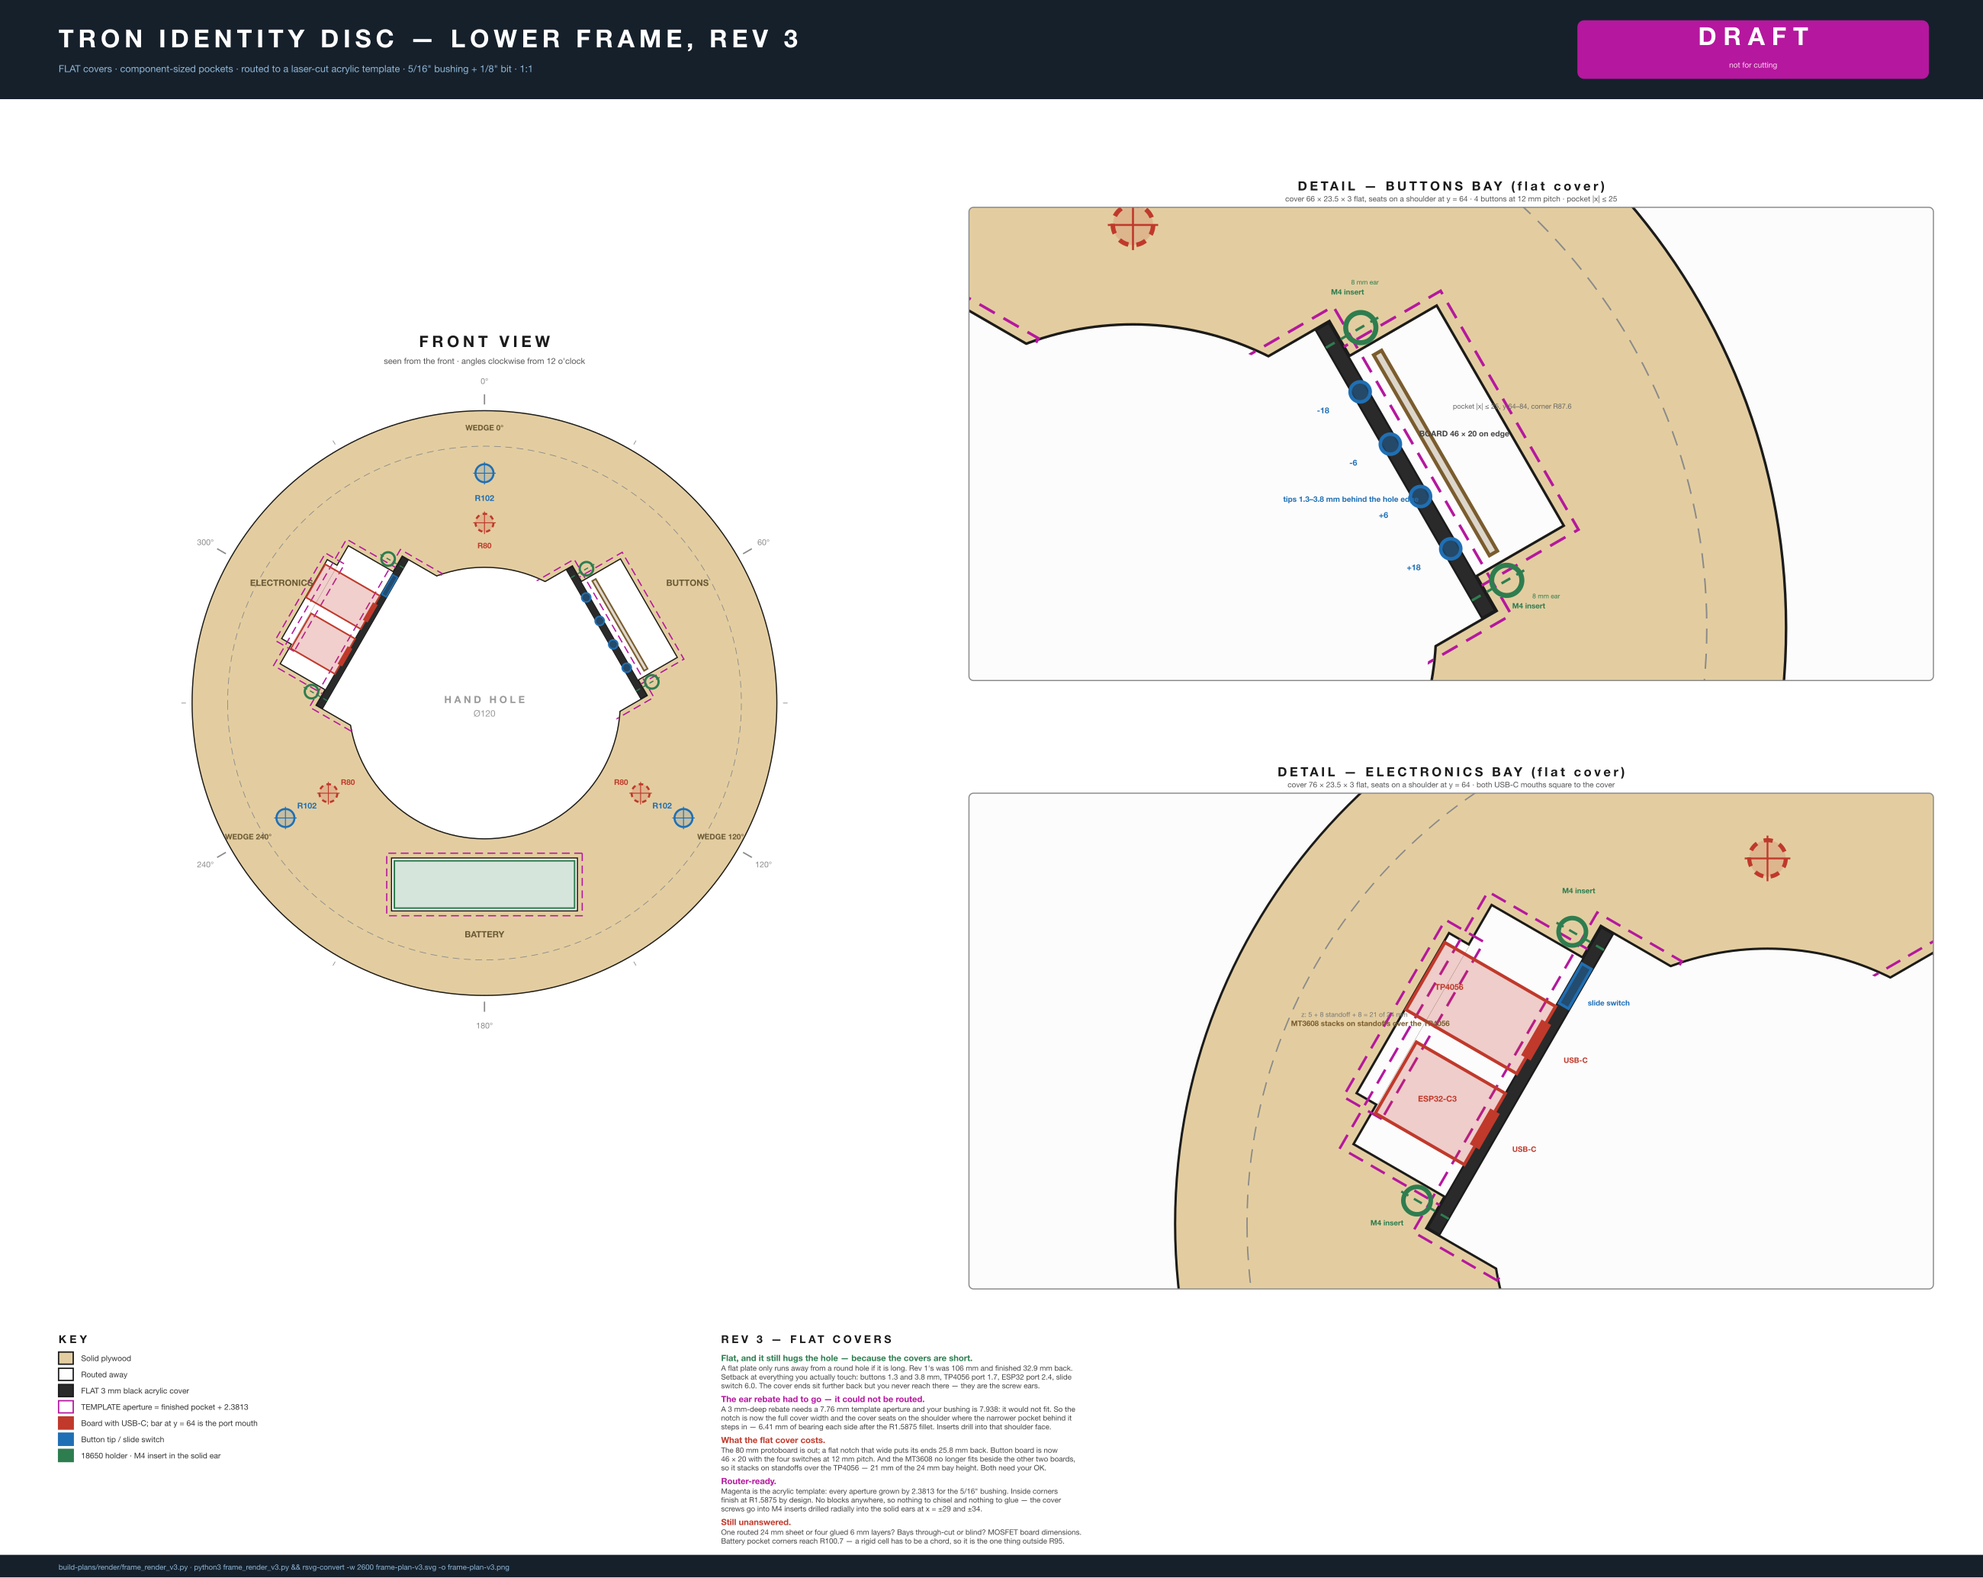
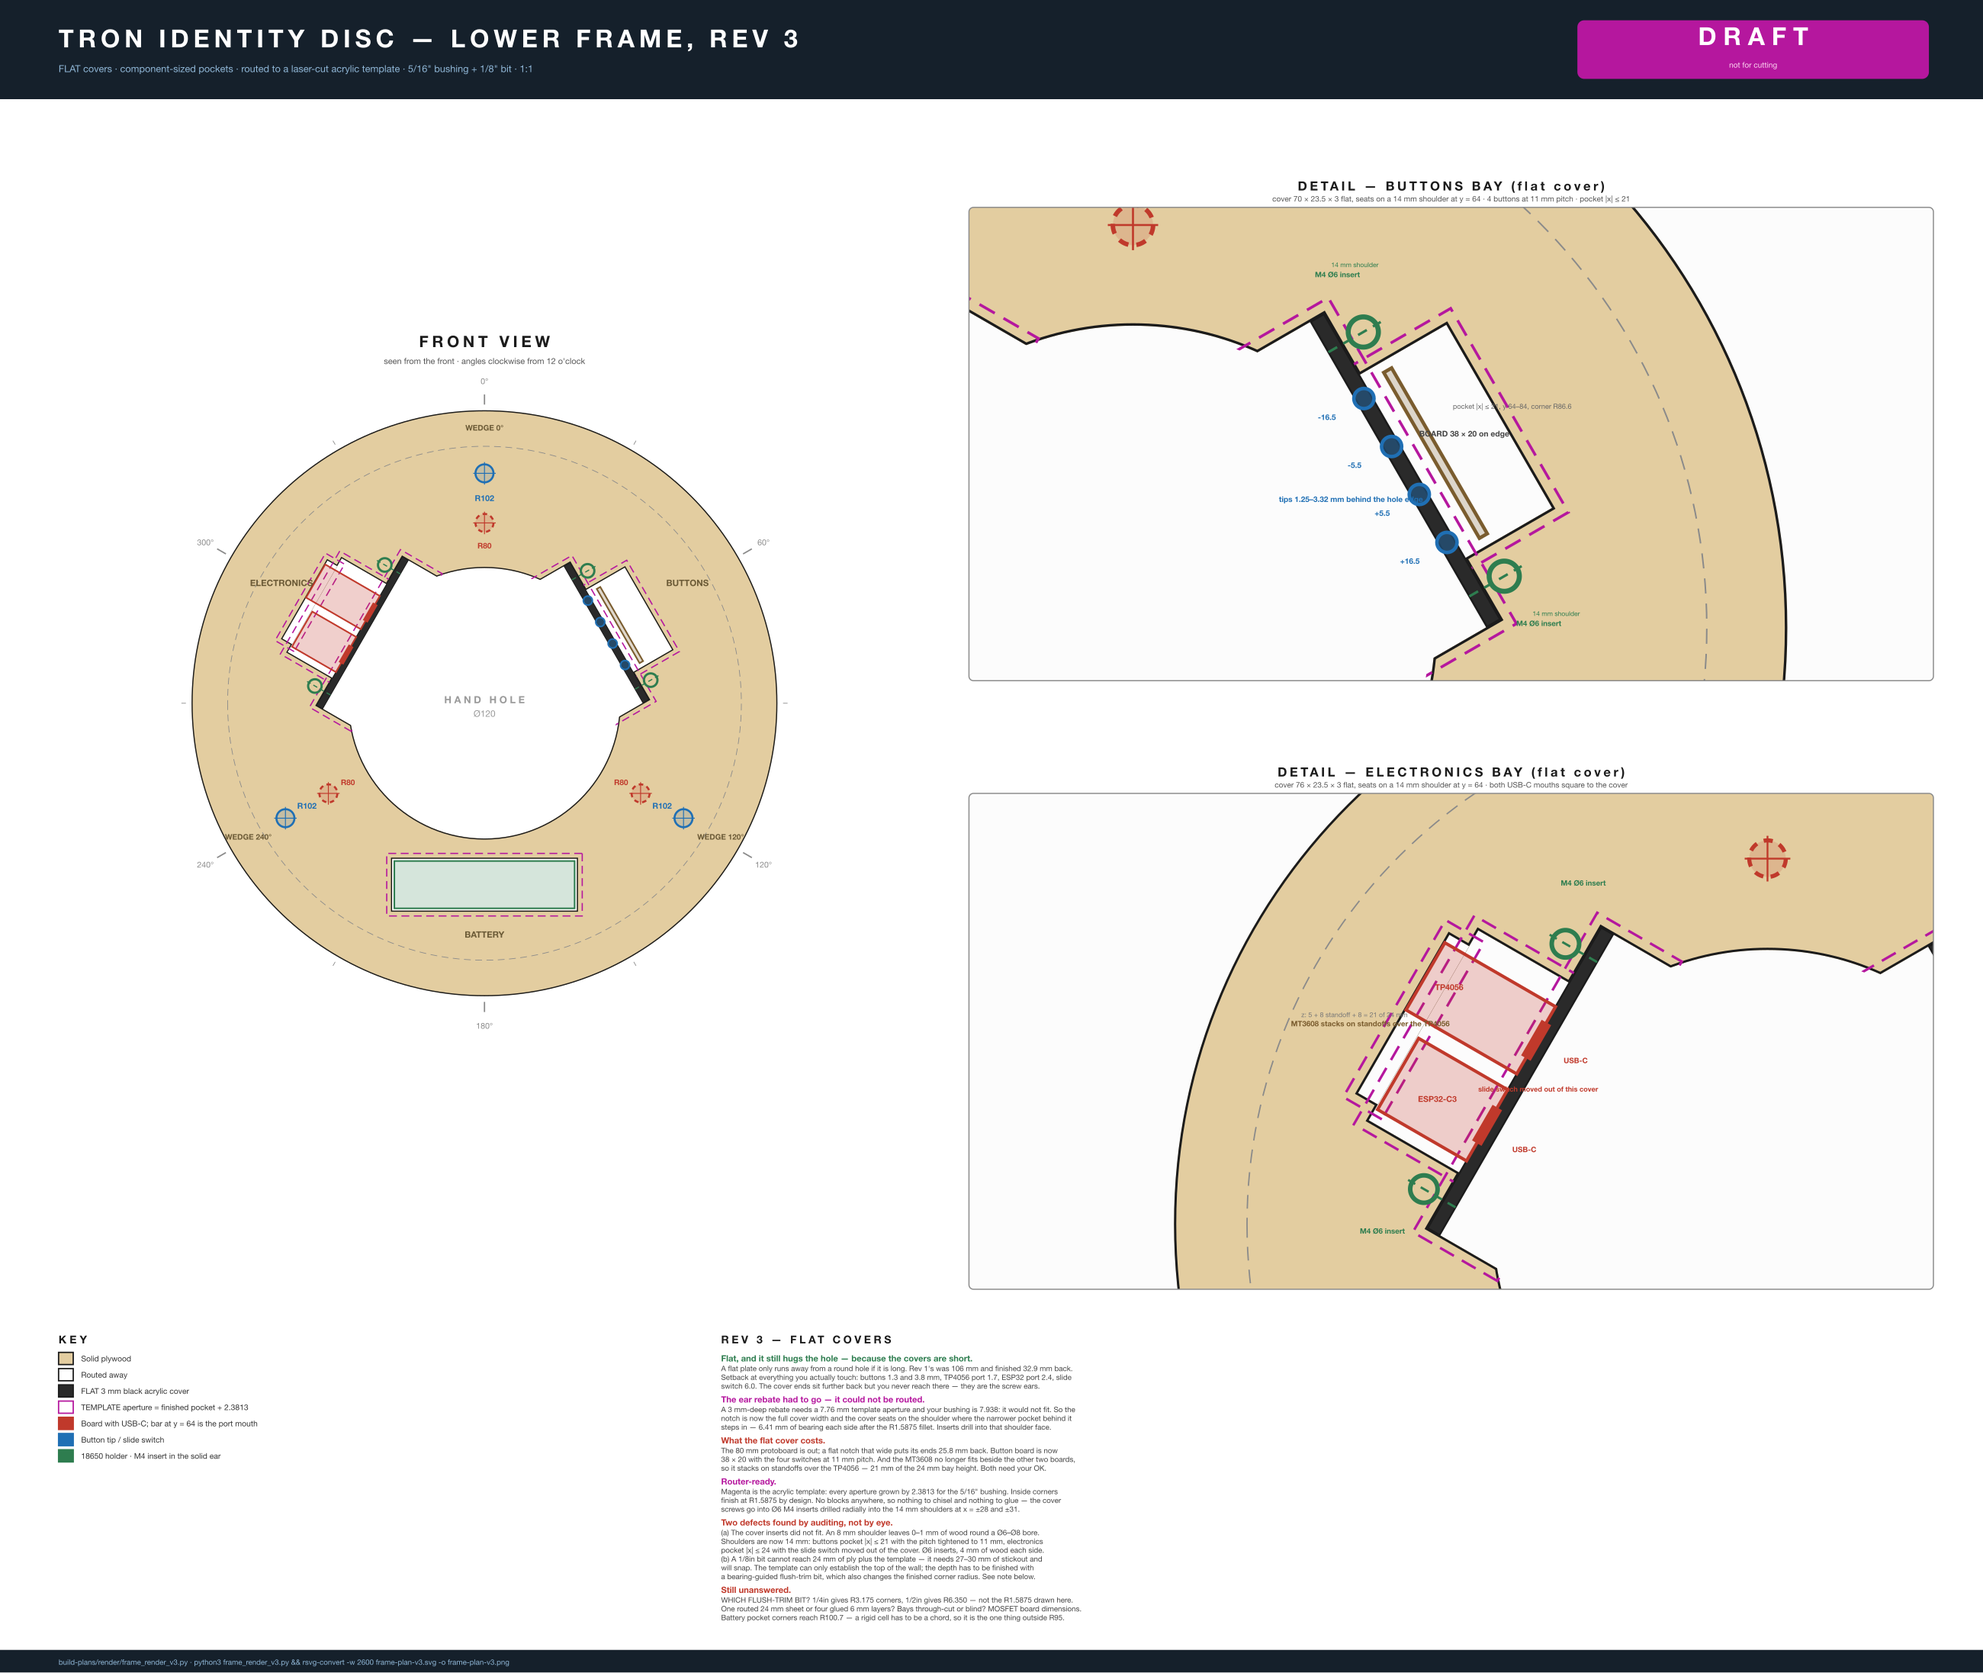
Widen the cover shoulders to 14 mm; flag that a 1/8in bit cannot reach
Two defects found by auditing the geometry against the tooling rather than by
looking at the drawing.

1. The cover inserts did not fit. The shoulder the cover seats on was 8 mm
   wide, which leaves 0 mm of wood around a Ø8 insert bore and 1 mm around a
   Ø6. Shoulders are now 14 mm, giving 4 mm each side of a Ø6 bore. Paying for
   that width needed the pockets narrowed: the buttons pitch drops to 11 mm so
   the board is 38 x 20 and the pocket is |x| <= 21, and the slide switch comes
   out of the electronics cover so that pocket is |x| <= 24. The slide switch
   has no new home yet.

2. A 1/8in bit cannot cut the full wall. 24 mm of ply plus a 3-6 mm template
   needs 27-30 mm of cutting length; common 1/8in bits give 12-25 mm. The
   template and bushing can only establish the top of the wall and the depth
   has to be finished with a bearing-guided flush-trim bit.

   That matters beyond procedure: the flush-trim bit sets the finished inside
   corner radius. 1/4in gives R3.175 and 1/2in gives R6.350, against the
   R1.5875 currently drawn. Every inside corner on both sheets and in the cut
   file has to be redrawn once Brennan says which bit he has. Flagged on the
   sheet and in the spec rather than guessed.

diff --git a/build-plans/render/frame_render_v3.py b/build-plans/render/frame_render_v3.py
@@ -16,16 +16,16 @@ BUSH, BIT = 5 / 16 * 25.4, 1 / 8 * 25.4
 TOFF, RCORNER = (BUSH - BIT) / 2, BIT / 2
 
 BAYS = [
-    dict(name="BUTTONS", A=60.0, notch=33.0, cover=33.0, ear=29.0,
-         pocket=[(25.0, 64.0, 84.0)],
-         buttons=[-18.0, -6.0, 6.0, 18.0], switch=None),
-    dict(name="ELECTRONICS", A=300.0, notch=38.0, cover=38.0, ear=34.0,
-         pocket=[(30.0, 64.0, 87.0), (20.0, 87.0, 92.0)],
-         buttons=[], switch=24.0),
+    dict(name="BUTTONS", A=60.0, notch=35.0, cover=35.0, ear=28.0,
+         pocket=[(21.0, 64.0, 84.0)],
+         buttons=[-16.5, -5.5, 5.5, 16.5], switch=None),
+    dict(name="ELECTRONICS", A=300.0, notch=38.0, cover=38.0, ear=31.0,
+         pocket=[(24.0, 64.0, 87.0), (20.0, 87.0, 92.0)],
+         buttons=[], switch=None),
 ]
 BOARDS = [  # bay index, label, x0, x1, y0, y1, has USB-C at y0
-    (0, "BUTTON BOARD 46×20 on edge", -23.0, 23.0, 68.5, 70.3, False),
-    (1, "ESP32-C3", -22.0, -4.0, 64.0, 86.5, True),
+    (0, "BUTTON BOARD 38×20 on edge", -19.0, 19.0, 68.5, 70.3, False),
+    (1, "ESP32-C3", -21.0, -3.0, 64.0, 86.5, True),
     (1, "TP4056", 1.0, 18.0, 64.0, 92.0, True),
 ]
 BAT_A, BAT_HALF, BAT_Y0, BAT_Y1 = 180.0, 41.0, 69.0, 92.0
@@ -164,7 +164,7 @@ def zoom(sh, uid, bx0, by0, bx1, by1, A, xr, y0, y1, title, sub, pad=14.0):
 
 
 def main():
-    sh = Sheet(880, 700)
+    sh = Sheet(880, 742)
     sh.add('<rect x="0" y="0" width="880" height="44" fill="#15202b"/>')
     sh.text(26, 21, "TRON IDENTITY DISC — LOWER FRAME, REV 3", 11.0, "#fff", anchor="start", weight="700", ls="2.0")
     sh.text(26, 32, "FLAT covers · component-sized pockets · routed to a laser-cut acrylic template "
@@ -193,27 +193,27 @@ def main():
 
     at = zoom(sh, "B", 430, 92, 858, 302, 60.0, 42.0, 58.0, 88.0,
               "DETAIL — BUTTONS BAY   (flat cover)",
-              "cover 66 × 23.5 × 3 flat, seats on a shoulder at y = 64 · 4 buttons at 12 mm pitch · pocket |x| ≤ 25")
-    for bx in (-18, -6, 6, 18):
-        x, y = at(bx, 54); sh.text(x, y, f"{bx:+.0f}", 3.6, BLUE, weight="700")
-    x, y = at(0, 50); sh.text(x, y, "tips 1.3–3.8 mm behind the hole edge", 3.4, BLUE, weight="700")
-    x, y = at(0, 76); sh.text(x, y, "BOARD 46 × 20 on edge", 3.5, "#444", weight="700")
-    x, y = at(0, 87); sh.text(x, y, "pocket |x| ≤ 25, y 64–84, corner R87.6", 3.1, "#666")
+              "cover 70 × 23.5 × 3 flat, seats on a 14 mm shoulder at y = 64 · 4 buttons at 11 mm pitch · pocket |x| ≤ 21")
+    for bx in (-16.5, -5.5, 5.5, 16.5):
+        x, y = at(bx, 54); sh.text(x, y, f"{bx:+.1f}", 3.4, BLUE, weight="700")
+    x, y = at(0, 50); sh.text(x, y, "tips 1.25–3.32 mm behind the hole edge", 3.4, BLUE, weight="700")
+    x, y = at(0, 76); sh.text(x, y, "BOARD 38 × 20 on edge", 3.5, "#444", weight="700")
+    x, y = at(0, 87); sh.text(x, y, "pocket |x| ≤ 21, y 64–84, corner R86.6", 3.1, "#666")
     for s in (-1, 1):
-        x, y = at(s * 36, 70); sh.text(x, y, "M4 insert", 3.3, GREEN, weight="700")
-        x, y = at(s * 36, 74); sh.text(x, y, "8 mm ear", 2.9, GREEN)
+        x, y = at(s * 40, 70); sh.text(x, y, "M4 Ø6 insert", 3.3, GREEN, weight="700")
+        x, y = at(s * 40, 74); sh.text(x, y, "14 mm shoulder", 2.9, GREEN)
 
     at = zoom(sh, "E", 430, 352, 858, 572, 300.0, 46.0, 58.0, 102.0,
               "DETAIL — ELECTRONICS BAY   (flat cover)",
-              "cover 76 × 23.5 × 3 flat, seats on a shoulder at y = 64 · both USB-C mouths square to the cover")
+              "cover 76 × 23.5 × 3 flat, seats on a 14 mm shoulder at y = 64 · both USB-C mouths square to the cover")
     for lbl, xm, yl in (("ESP32-C3", -13.0, 76.0), ("TP4056", 9.5, 86.0)):
         x, y = at(xm, yl); sh.text(x, y, lbl, 3.6, RED, weight="700")
         x, y = at(xm, 54); sh.text(x, y, "USB-C", 3.3, RED, weight="700")
-    x, y = at(24, 54); sh.text(x, y, "slide switch", 3.3, BLUE, weight="700")
+    x, y = at(0, 58); sh.text(x, y, "slide switch moved out of this cover", 3.1, RED, weight="700")
     x, y = at(-6, 97); sh.text(x, y, "MT3608 stacks on standoffs over the TP4056", 3.3, "#7a5c2e", weight="700")
     x, y = at(-6, 101); sh.text(x, y, "z: 5 + 8 standoff + 8 = 21 of 24 mm", 3.0, "#777")
     for s in (-1, 1):
-        x, y = at(s * 42, 72); sh.text(x, y, "M4 insert", 3.3, GREEN, weight="700")
+        x, y = at(s * 44, 72); sh.text(x, y, "M4 Ø6 insert", 3.3, GREEN, weight="700")
 
     ly = 596
     sh.text(26, ly, "KEY", 4.8, INK, anchor="start", weight="700", ls="1.4")
@@ -241,13 +241,21 @@ def main():
          "steps in — 6.41 mm of bearing each side after the R1.5875 fillet. Inserts drill into that shoulder face."),
         ("What the flat cover costs.", RED,
          "The 80 mm protoboard is out; a flat notch that wide puts its ends 25.8 mm back. Button board is now",
-         "46 × 20 with the four switches at 12 mm pitch. And the MT3608 no longer fits beside the other two boards,",
+         "38 × 20 with the four switches at 11 mm pitch. And the MT3608 no longer fits beside the other two boards,",
          "so it stacks on standoffs over the TP4056 — 21 mm of the 24 mm bay height. Both need your OK."),
         ("Router-ready.", MAG,
          "Magenta is the acrylic template: every aperture grown by 2.3813 for the 5/16\" bushing. Inside corners",
          "finish at R1.5875 by design. No blocks anywhere, so nothing to chisel and nothing to glue — the cover",
-         "screws go into M4 inserts drilled radially into the solid ears at x = ±29 and ±34."),
+         "screws go into Ø6 M4 inserts drilled radially into the 14 mm shoulders at x = ±28 and ±31."),
+        ("Two defects found by auditing, not by eye.", RED,
+         "(a) The cover inserts did not fit. An 8 mm shoulder leaves 0–1 mm of wood round a Ø6–Ø8 bore.",
+         "Shoulders are now 14 mm: buttons pocket |x| ≤ 21 with the pitch tightened to 11 mm, electronics",
+         "pocket |x| ≤ 24 with the slide switch moved out of the cover. Ø6 inserts, 4 mm of wood each side.",
+         "(b) A 1/8in bit cannot reach 24 mm of ply plus the template — it needs 27–30 mm of stickout and",
+         "will snap. The template can only establish the top of the wall; the depth has to be finished with",
+         "a bearing-guided flush-trim bit, which also changes the finished corner radius. See note below."),
         ("Still unanswered.", RED,
+         "WHICH FLUSH-TRIM BIT? 1/4in gives R3.175 corners, 1/2in gives R6.350 — not the R1.5875 drawn here.",
          "One routed 24 mm sheet or four glued 6 mm layers? Bays through-cut or blind? MOSFET board dimensions.",
          "Battery pocket corners reach R100.7 — a rigid cell has to be a chord, so it is the one thing outside R95."),
     ]
@@ -258,8 +266,8 @@ def main():
             sh.text(nx, y, ln, 3.3, "#444", anchor="start"); y += 3.9
         y += 2.2
 
-    sh.add('<rect x="0" y="690" width="880" height="10" fill="#15202b"/>')
-    sh.text(26, 696.6, "build-plans/render/frame_render_v3.py  ·  python3 frame_render_v3.py && "
+    sh.add('<rect x="0" y="732" width="880" height="10" fill="#15202b"/>')
+    sh.text(26, 738.6, "build-plans/render/frame_render_v3.py  ·  python3 frame_render_v3.py && "
             "rsvg-convert -w 2600 frame-plan-v3.svg -o frame-plan-v3.png", 3.3, "#8fb6d6", anchor="start")
     open("frame-plan-v3.svg", "w").write(sh.svg())
     print("wrote frame-plan-v3.svg")

diff --git a/docs/frame-rev3.md b/docs/frame-rev3.md
@@ -59,7 +59,7 @@ and `frame-pockets-finished.svg` (reference).
 | | |
 |---|---|
 | Template offset | **2.38125** — every aperture is that much larger than the finished pocket |
-| Finished inside corner | **R1.5875** (bit radius), by design, everywhere |
+| Finished inside corner | **R1.5875** if the 1/8" bit cuts the full wall — **but see below** |
 | Minimum template aperture | **7.9375** (bushing OD) |
 | Minimum finished pocket | **3.175** (bit) |
 
@@ -72,7 +72,16 @@ Registration: the template has a **Ø119.6 centre bore** for the existing jig pl
 (`build-plans/halloween/7-jigs-ply.svg`) plus a **Ø6 pin at R80 / 180°**, which lands inside
 the battery pocket and is routed away.
 
-> **Open:** are the pockets through-cuts or blind? A 1/8" bit 24 mm deep is a lot of stickout.
+> **The 1/8" bit cannot cut the full depth.** 24 mm of ply plus a 3–6 mm template needs 27–30 mm
+> of cutting length; common 1/8" bits give 12–25 mm and will deflect or snap long before that. So
+> the template and bushing can only establish the top of the wall, and the depth has to be finished
+> with a **bearing-guided flush-trim bit** riding the wall the template just cut.
+>
+> That changes the corner radius, because the flush-trim bit sets it: **1/4" → R3.175**,
+> **1/2" → R6.350**, against the R1.5875 drawn here. **Which flush-trim bit do you have?**
+> Every inside corner on the drawings and in the cut file has to be redrawn to match it.
+
+> **Open:** are the pockets through-cuts or blind?
 
 ## Covered Bays
 
@@ -81,12 +90,12 @@ slide), screwed with M4 × 12 countersunk into inserts in the shoulder.
 
 | | Buttons (60°) | Electronics (300°) |
 |---|---|---|
-| Notch, hole → y = 64 | \|x\| ≤ **33** | \|x\| ≤ **38** |
-| Cover | **66** × 23.5 × 3 | **76** × 23.5 × 3 |
-| Pocket behind | \|x\| ≤ **25**, y 64–84 | \|x\| ≤ **30**, y 64–87, then \|x\| ≤ **20**, y 87–92 |
-| Shoulder (cover seat) | \|x\| 25–33 at y = 64 | \|x\| 30–38 at y = 64 |
-| M4 inserts, axis radial | x = **±29**, into the shoulder face | x = **±34**, into the shoulder face |
-| Pocket corner | R87.64 | R92.03 / R94.15 |
+| Notch, hole → y = 64 | \|x\| ≤ **35** | \|x\| ≤ **38** |
+| Cover | **70** × 23.5 × 3 | **76** × 23.5 × 3 |
+| Pocket behind | \|x\| ≤ **21**, y 64–84 | \|x\| ≤ **24**, y 64–87, then \|x\| ≤ **20**, y 87–92 |
+| Shoulder (cover seat) | \|x\| 21–35 at y = 64, **14 wide** | \|x\| 24–38 at y = 64, **14 wide** |
+| M4 inserts, axis radial | **Ø6** at x = **±28** | **Ø6** at x = **±31** |
+| Pocket corner | R86.64 | R90.60 / R94.15 |
 
 ### Setback behind the hand-hole edge
 
@@ -94,20 +103,19 @@ Measured at each feature's own x, against the R60 arc. This is the number rev 1 
 
 | Feature | Behind the edge |
 |---|---|
-| Buttons at x = ±6 | 1.30 |
+| Buttons at x = ±5.5 | 1.25 |
 | TP4056 USB-C | 1.68 |
 | ESP32-C3 USB-C | 2.43 |
-| Buttons at x = ±18 | 3.76 |
-| Slide switch | 6.01 |
-| Notch ends | 6.46 (buttons) / 9.04 (electronics) |
+| Buttons at x = ±16.5 | 3.32 |
 
-The cover **ends** sit 10.9 and 14.6 back, but they are the screw ears with solid wood
-behind them — nothing is reached there.
+| Notch ends | 12.26 (buttons) / 14.57 (electronics) |
+
+The notch ends are the screw ears, with solid wood behind them — nothing is reached there.
 
 ### Buttons bay contents
 
-- **Board 46 × 20**, standing on edge, four 6×6×9.5 tactile switches at **12 mm pitch**,
-  x = −18, −6, +6, +18, tips through the cover.
+- **Board 38 × 20**, standing on edge, four 6×6×9.5 tactile switches at **11 mm pitch**,
+  x = −16.5, −5.5, +5.5, +16.5, tips through the cover.
 - The 80 × 20 protoboard of rev 1 **does not fit**: a flat notch wide enough for it puts
   its ends 25.8 mm behind the hand hole.
 
@@ -117,10 +125,10 @@ Boards lie flat on the carrier, USB-C against the cover at y = 64.
 
 | Board | Size | Place (bay x) |
 |---|---|---|
-| ESP32-C3 Super Mini | 18 × 22.5 | x = −22 … −4, USB-C at y = 64 |
+| ESP32-C3 Super Mini | 18 × 22.5 | x = −21 … −3, USB-C at y = 64 |
 | USB-C charger (TP4056) | 17 × 28 | x = +1 … +18, USB-C at y = 64 |
 | MT3608 boost | 17 × 36 | **Stacked on standoffs over the TP4056** |
-| Slide switch | 10 × 4 slot | x = +24, on the cover |
+| Slide switch | 10 × 4 slot | **Moved out of this cover** — the shoulder needs the width. Location TBD |
 
 **The MT3608 does not fit alongside** the other two in a 60-wide pocket. Stacking it costs
 5 + 8 + 8 = **21 mm of the 24 mm** bay height.
@@ -149,7 +157,11 @@ corners in to about R97.
 |---|---|---|---|---|
 | **Front** | R102 at 0°, 120°, 240° | 3 | Into the front surface (z = 0) | Face screws |
 | **Back** | R80 at 0°, 120°, 240° | 3 | Into the back surface (z = 24) | Carrier and back cover |
-| **Covers** | Shoulder face at y = 64, bay x = ±29 / ±34 | 4 | Radially, toward the hand hole | Cover screws |
+| **Covers** | Shoulder face at y = 64, bay x = ±28 / ±31 | 4 | Radially, toward the hand hole | Cover screws |
+
+The cover inserts need a **14 mm shoulder**: a Ø6 bore in the 8 mm shoulder of the first rev 3
+draft left 1 mm of wood each side. 14 mm gives 4 mm each side, which is why the pockets are
+narrower than the component sizes alone would suggest and why the slide switch left the cover.
 
 Front and back are at different radii, so their screw tips can never meet: 22 mm apart
 radially, and z 0–10 against z 14–24.
@@ -190,11 +202,11 @@ them into the electronics pocket. The C-strip leads drop at R86, already inside 
 |---|---|
 | Frame | Ø260 / Ø120, 24 thick |
 | Outer rim | R114 – R130 |
-| Buttons | notch \|x\| ≤ 33, pocket \|x\| ≤ 25 y 64–84, cover 66 |
-| Electronics | notch \|x\| ≤ 38, pocket \|x\| ≤ 30 y 64–87 + \|x\| ≤ 20 y 87–92, cover 76 |
+| Buttons | notch \|x\| ≤ 35, pocket \|x\| ≤ 21 y 64–84, cover 70 |
+| Electronics | notch \|x\| ≤ 38, pocket \|x\| ≤ 24 y 64–87 + \|x\| ≤ 20 y 87–92, cover 76 |
 | Battery | \|x\| ≤ 41, y 69–92 |
 | Front inserts | R102 @ 0°, 120°, 240° |
 | Back inserts | R80 @ 0°, 120°, 240° |
-| Cover inserts | bay x = ±29 (buttons), ±34 (electronics), at y = 64 |
+| Cover inserts | Ø6 at bay x = ±28 (buttons), ±31 (electronics), y = 64, in a 14 mm shoulder |
 | Wire groove | R70, 3.175 wide, 6 deep, back face, 360° |
 | Template offset | 2.38125 · corner R1.5875 |
